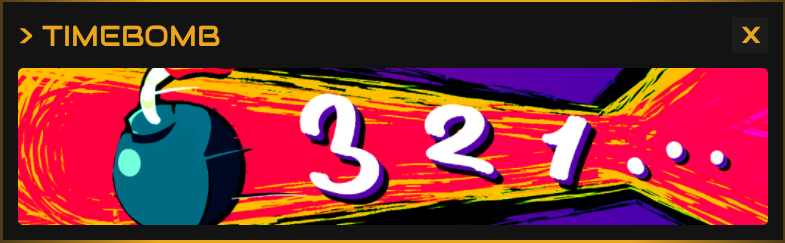
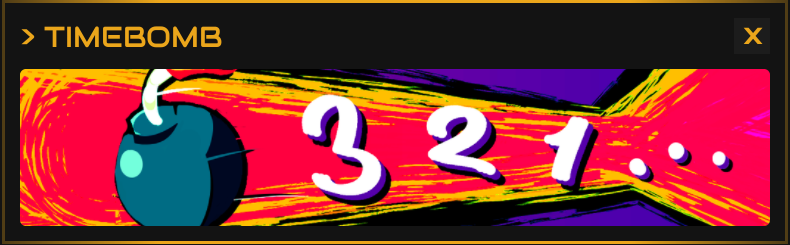
[1.3.9]
updated timebomb

diff --git a/assets/js/version.js b/assets/js/version.js
@@ -22,4 +22,5 @@ document.addEventListener("DOMContentLoaded", () => {
 // window.version = "1.3.5"; // Added prices in gallery, including porting over the official bombline coin graphic. Changed readme to be more specific about which features had already been implemented.
 // window.version = "1.3.6"; // Added What Am I fighting for
 // window.version = "1.3.7"; // Updated Galaxy. Updated Funky.
-window.version = "1.3.8"; // Updated Seeing Grey.
+// window.version = "1.3.8"; // Updated Seeing Grey.
+window.version = "1.3.9"; // updated timdebomb
